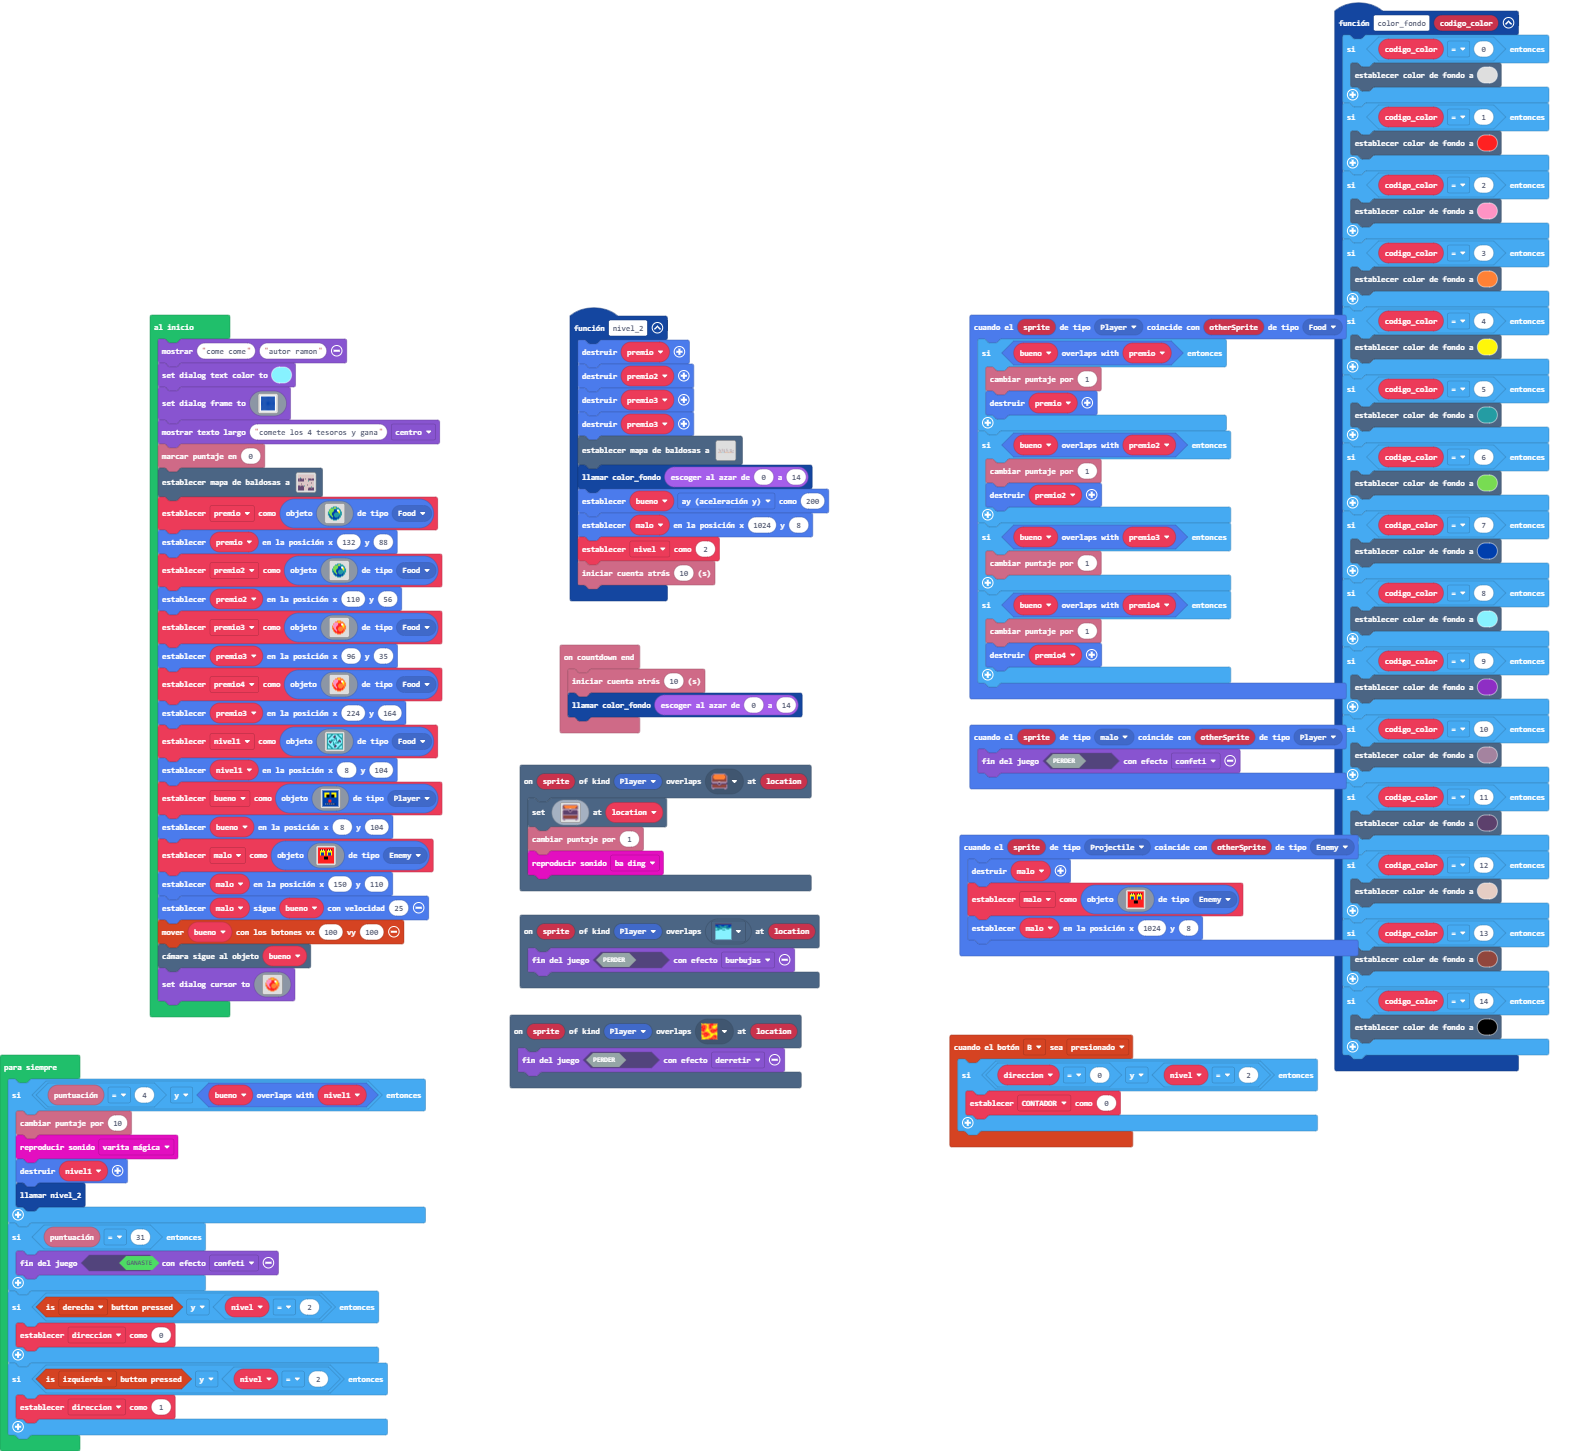
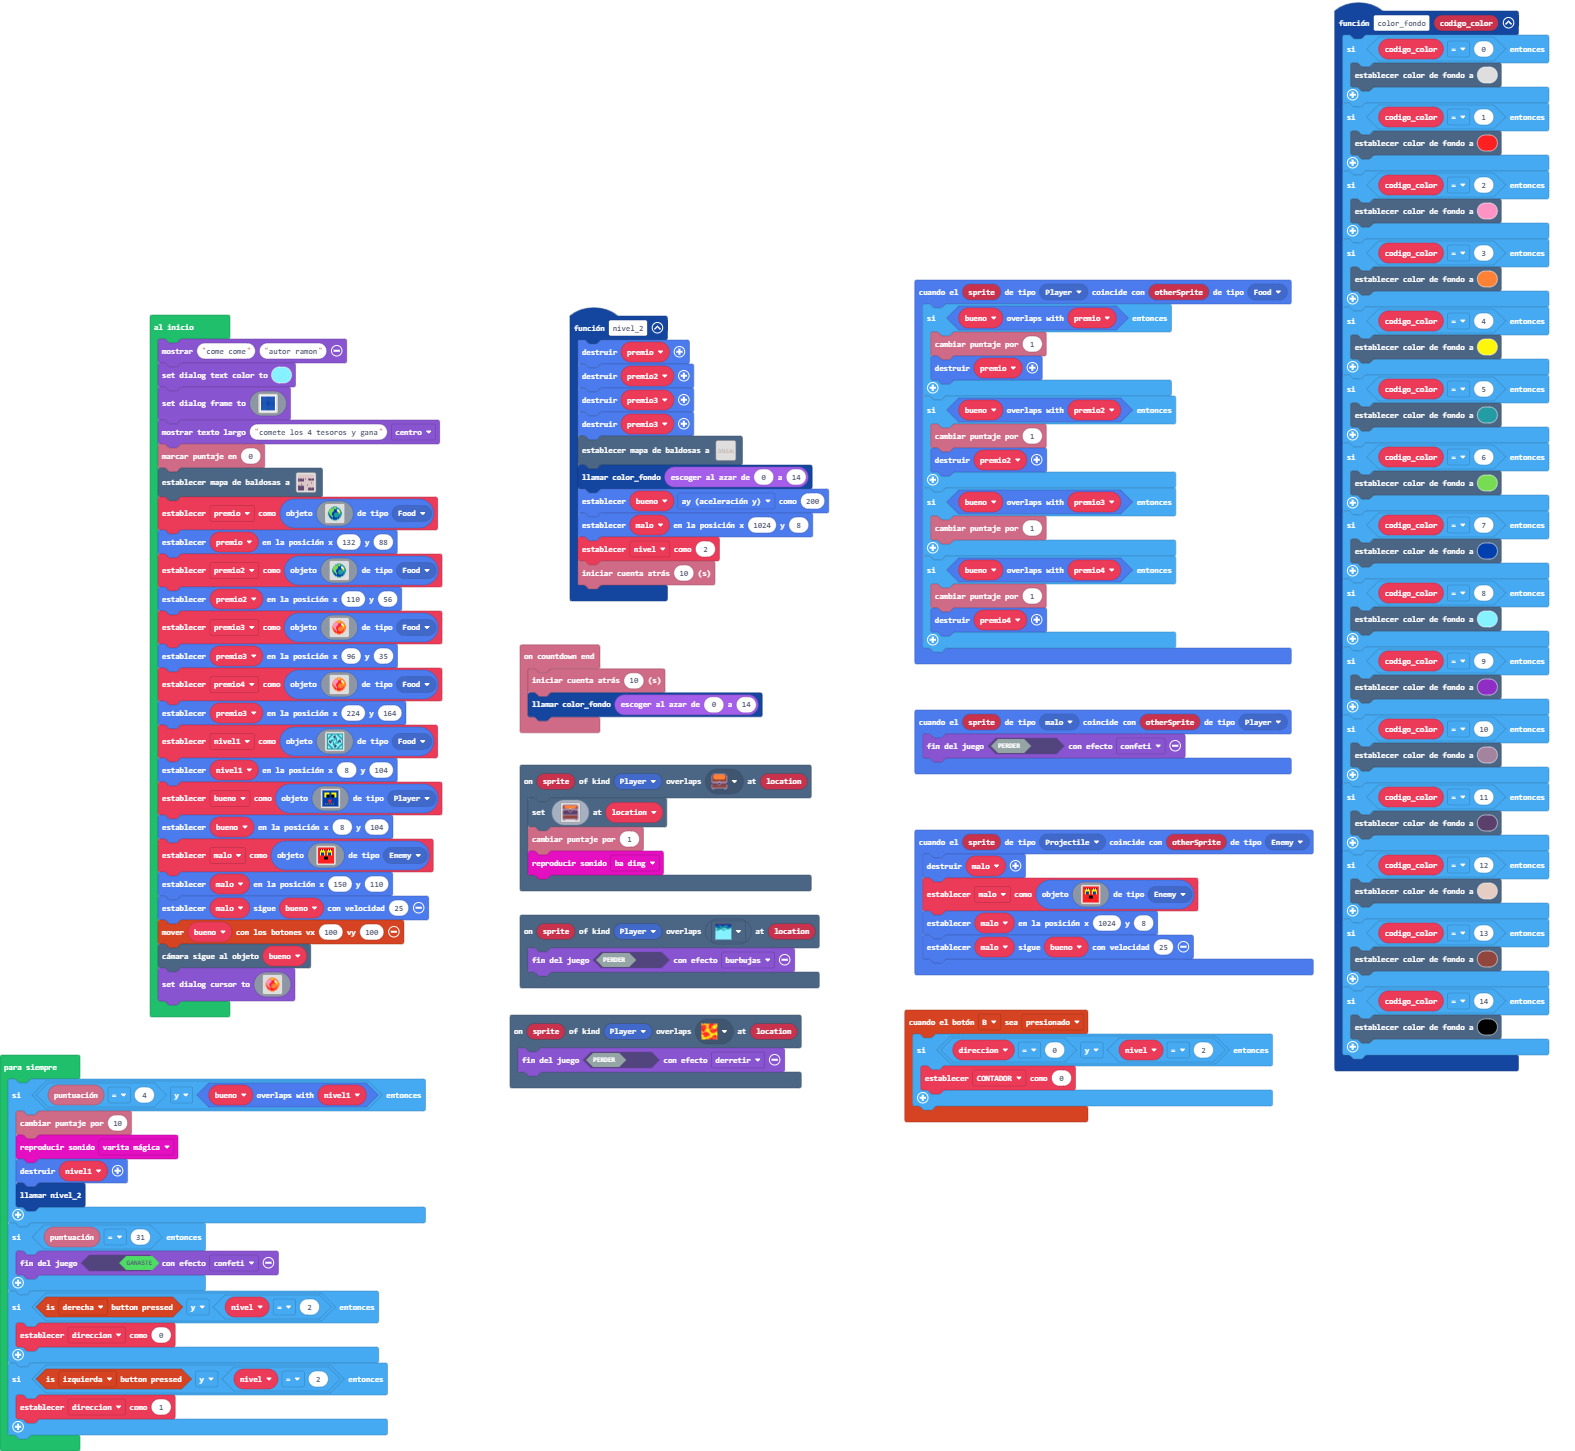
cambio malo nivel 2

Changed region(s): [[0.56, 0.1861, 0.8711, 0.8063], [0.3111, 0.4342, 0.5289, 0.5272]]

diff --git a/tilemap.g.ts b/tilemap.g.ts
@@ -13,44 +13,6 @@ namespace myTiles {
 
     helpers._registerFactory("tilemap", function(name: string) {
         switch(helpers.stringTrim(name)) {
-            case "nivel1":
-            case "nivel1":return tiles.createTilemap(hex`1000100002020202020202020202020202020202020202020202020202020202020202020202020202020202020202020202020202020502020202020202020202020202010101010401020302020101010401010104010101010202020204010101010101010101010102020202050202020202020202020202020202020202020202020202020202020202020202020203020202020203020202020202020202020202020202020202020202030202020202020101040101040502020202020202020201010101010102020202020202050202010101010101020202020401010401010101010101010202020201010101010101010101010102020202010101010101`, img`
-. . . . . . . . . . . . . . . . 
-. . . . . . . . . . . . . . . . 
-. . . . . . . . . . . . . . . . 
-. . . . . . . . . . . . . . . . 
-2 2 2 2 2 2 . 2 . . 2 2 2 2 2 2 
-2 2 2 2 2 2 . . . . 2 2 2 2 2 2 
-2 2 2 2 2 2 . . . . . . . . . . 
-. . . . . . . . . . . . . . . . 
-. . . . . . . . . . . . . 2 . . 
-. . . 2 . . . . . . . . . . . . 
-. . . . . . . . . 2 . . . . . . 
-2 2 2 2 2 2 . . . . . . . . . . 
-. . . . . 2 . . . . . . . . . . 
-. . . . . 2 . . . . 2 2 2 2 2 2 
-. . . . . 2 . . . . 2 . . . . . 
-. . . . . 2 . . . . 2 . . . . . 
-`, [myTiles.transparency16,sprites.dungeon.darkGroundNorthEast0,sprites.dungeon.floorLight0,sprites.dungeon.doorOpenWest,sprites.dungeon.doorLockedWest,myTiles.tile4], TileScale.Sixteen);
-            case "nivel2":
-            case "nivel2":return tiles.createTilemap(hex`4000100000000000000000000000000000000000000000000000000000000000000000000000000000000000000000000000000000000000000000000000000000000000000000000000000000000000000000000000000000000000000000000000000000000000050000000000000000000000000000000000000000000000000000000000000400000000000000000000000000000004000000000000000000000000000000040000000000000000000000000000000000000000000000000000000000000001010101000000000000000001010101010000000000000000000000000001010101010000000000000000000000000005000000000000000000000000000000000000000000000000000000000000000000000000000500000000000000000000000000000000000000000000000000000000040000000000000000000000000000000000050000000000000000000000000000000000000400000000000000000000000000000000000000010101010101010100000000000000000000000000000000000000040000000000000000000000010101010101000000000000000000000000000000000000000000000000000000000000000000000000000000000000010101010100000000000000000000000000000000000000000000000000000000000000000000000000000000000000000000000000000004000000000000000000000000000000000000040000000000000000000000000000000000000500000004000000000000000000000000000000000000010101010000000000000000000000000000000001010101010000000000000000000000000001010101010101010000000000000000000000000000000000000000000000000000000000000004000000000000000000000000000000000400000000000000000000000000000000000000000000000000000500000004000000000000000000000000000001010101000000000000000000000000010101010100000000000000000000000000000000000000000101010101010101010000000000000000000000000000000000000000000000000000000000000000000001000000000000000000000000000000000000000000000000000000000000000000000000000000000000000000000000000000000000000000000000000000000000000000000000000000000000000000000000000000000000000000000000000000000000000000000000000000000000000000000000000000000000000000000000000000000000000000000000000000000000000000000000000000000000000001010101010202020202020101010101030303030303030301010101010102020202020202020201010101010102020202020202020201010101010101010101`, img`
-................................................................
-................................................................
-................................................................
-................................................................
-................................................................
-................................................................
-................................................................
-................................................................
-................................................................
-................................................................
-................................................................
-................................................................
-................................................................
-................................................................
-................................................................
-................................................................
-`, [myTiles.transparency16,sprites.builtin.forestTiles25,myTiles.tile1,myTiles.tile2,myTiles.tile3,myTiles.tile4], TileScale.Sixteen);
             case "level1":
             case "level1":return tiles.createTilemap(hex`1000100000000000000000000000000000000000000000000000000000000000000000000000000000000000000000000000000000000000000000000000000000000000000000000000000000000000000000000000000000000000000000000000000000000000000000000000000000000000000000000000000000000000000000000000000000000000000000000000000000000000000000000000000000000000000000000000000000000000000000000000000000000000000000000000000000000000000000000000000000000000000000000000000000000000000000000000000000000000000000000000000000000000000000000000000000000000`, img`
 . . . . . . . . . . . . . . . . 
@@ -108,6 +70,44 @@ namespace myTiles {
 . . . . . . . . . . . . . . . . 
 . . . . . . . . . . . . . . . . 
 `, [myTiles.transparency16], TileScale.Sixteen);
+            case "nivel1":
+            case "nivel1":return tiles.createTilemap(hex`1000100002020202020202020202020202020202020202020202020202020202020202020202020202020202020202020202020202020202020202020202020202020202010101010401020302020101010401010104010101010202020204010101010101010101010102020202020202020202020202020202020202020202020202020202020202020202020202020203020202020203020202020202020202020202020202020202020202030202020202020101040101040202020202020202020201010101010102020202020202020202010101010101020202020401010401010101010101010202020201010101010101010101010102020202010101010101`, img`
+. . . . . . . . . . . . . . . . 
+. . . . . . . . . . . . . . . . 
+. . . . . . . . . . . . . . . . 
+. . . . . . . . . . . . . . . . 
+2 2 2 2 2 2 . 2 . . 2 2 2 2 2 2 
+2 2 2 2 2 2 . . . . 2 2 2 2 2 2 
+2 2 2 2 2 2 . . . . . . . . . . 
+. . . . . . . . . . . . . . . . 
+. . . . . . . . . . . . . 2 . . 
+. . . 2 . . . . . . . . . . . . 
+. . . . . . . . . 2 . . . . . . 
+2 2 2 2 2 2 . . . . . . . . . . 
+. . . . . 2 . . . . . . . . . . 
+. . . . . 2 . . . . 2 2 2 2 2 2 
+. . . . . 2 . . . . 2 . . . . . 
+. . . . . 2 . . . . 2 . . . . . 
+`, [myTiles.transparency16,sprites.dungeon.darkGroundNorthEast0,sprites.dungeon.floorLight0,sprites.dungeon.doorOpenWest,sprites.dungeon.doorLockedWest], TileScale.Sixteen);
+            case "nivel2":
+            case "nivel2":return tiles.createTilemap(hex`4000100000000000000000000000000000000000000000000000000000000000000000000000000000000000000000000000000000000000000000000000000000000000000000000000000000000000000000000000000000000000000000000000000000000000000000000000000000000000000000000000000000000000000000000000000400000000000000000000000000000004000000000000000000000000000000040000000000000000000000000000000000000000000000000000000000000001010101000000000000000001010101010000000000000000000000000001010101010000000000000000000000000000000000000000000000000000000000000000000000000000000000000000000000000000000000000000000000000000000000000000000000000000000000000000040000000000000000000000000000000000000000000000000000000000000000000000000400000000000000000000000000000000000000010101010101010100000000000000000000000000000000000000040000000000000000000000010101010101000000000000000000000000000000000000000000000000000000000000000000000000000000000000010101010100000000000000000000000000000000000000000000000000000000000000000000000000000000000000000000000000000004000000000000000000000000000000000000040000000000000000000000000000000000000000000004000000000000000000000000000000000000010101010000000000000000000000000000000001010101010000000000000000000000000001010101010101010000000000000000000000000000000000000000000000000000000000000004000000000000000000000000000000000400000000000000000000000000000000000000000000000000000000000004000000000000000000000000000001010101000000000000000000000000010101010100000000000000000000000000000000000000000101010101010101010000000000000000000000000000000000000000000000000000000000000000000001000000000000000000000000000000000000000000000000000000000000000000000000000000000000000000000000000000000000000000000000000000000000000000000000000000000000000000000000000000000000000000000000000000000000000000000000000000000000000000000000000000000000000000000000000000000000000000000000000000000000000000000000000000000000000001010101010202020202020101010101030303030303030301010101010102020202020202020201010101010102020202020202020201010101010101010101`, img`
+................................................................
+................................................................
+................................................................
+................................................................
+................................................................
+................................................................
+................................................................
+................................................................
+................................................................
+................................................................
+................................................................
+................................................................
+................................................................
+................................................................
+................................................................
+................................................................
+`, [myTiles.transparency16,sprites.builtin.forestTiles25,myTiles.tile1,myTiles.tile2,myTiles.tile3], TileScale.Sixteen);
         }
         return null;
     })

diff --git a/main.ts b/main.ts
@@ -139,6 +139,7 @@ sprites.onOverlap(SpriteKind.Projectile, SpriteKind.Enemy, function (sprite, oth
         2 2 2 2 2 2 2 2 2 2 2 2 2 2 2 2 
         `, SpriteKind.Enemy)
     malo.setPosition(1024, 8)
+    malo.follow(bueno, 25)
 })
 let CONTADOR = 0
 let direccion = 0
